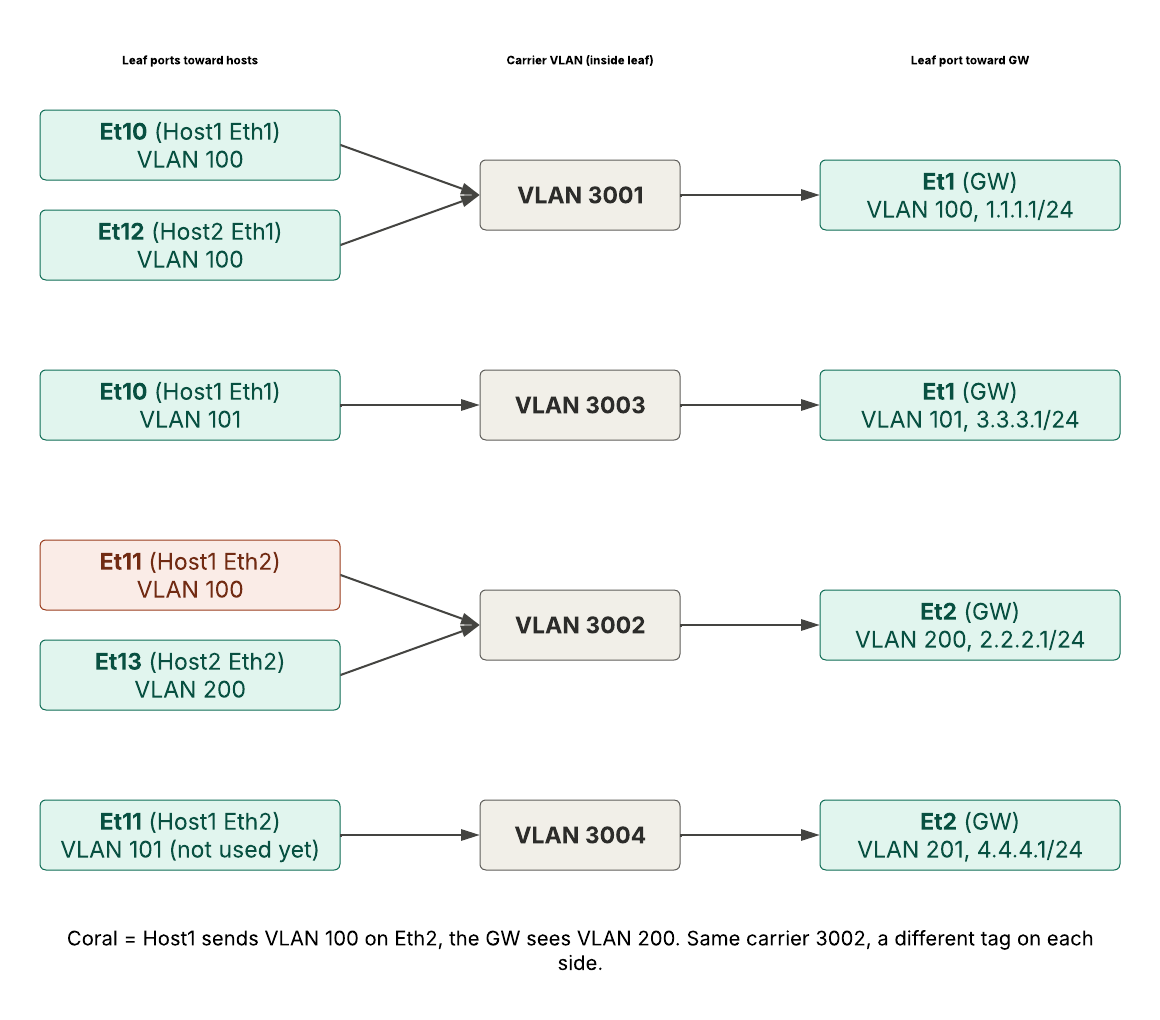
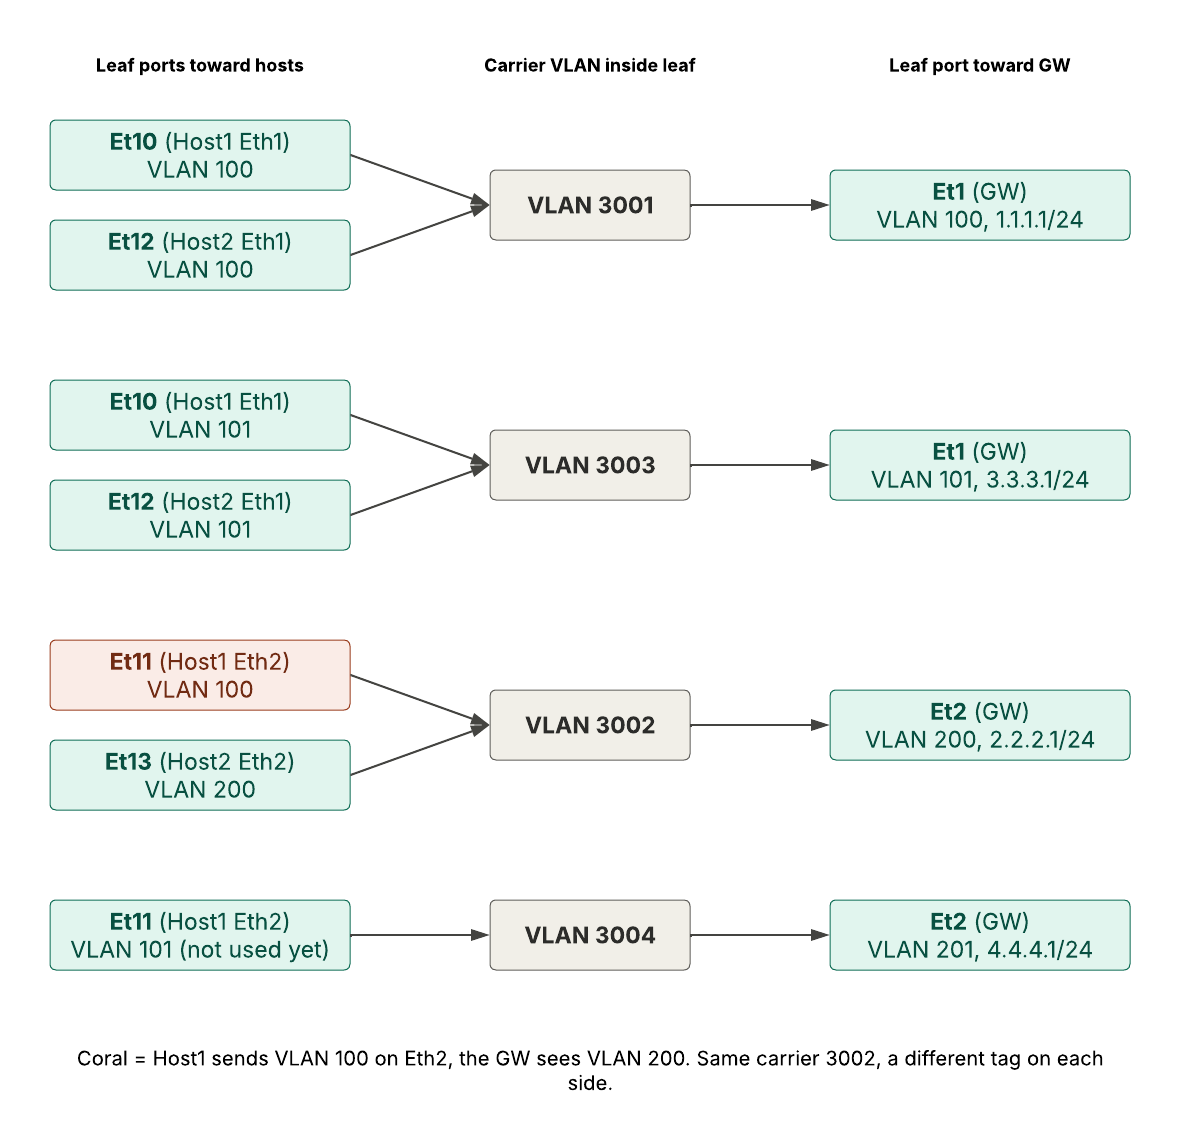
Update ACI example: Host2 VLAN 101, Et12 translation to 3003, ACI-L1 rename
Claude-Session: https://claude.ai/code/session_01FdATFcuqPP7GwvvmwfoGLn

diff --git a/pvlan-sw/ACI-example.md b/pvlan-sw/ACI-example.md
@@ -19,20 +19,20 @@ For the full command list and troubleshooting, see [README.md](README.md).
 
 ## Topology
 
-![Overview of the lab: Host1 and Host2 connected to LEAF1A, LEAF1A connected to GW](images/aci-example-overview.png)
+![Overview of the lab: ACI-L1 and Host2 connected to LEAF1A, LEAF1A connected to GW](images/aci-example-overview.png)
 
 In the diagram every host port is shown as a physical interface with the VLANs it carries. The Linux bridge that `pvlan-sw` uses internally is not drawn, so you only see ports, VLANs and IPs.
 
 | Device | Port | VLANs | IP addresses |
 | --- | --- | --- | --- |
-| Host1 | Eth1 (trunk) | 100, 101 | 1.1.1.10/24 on VLAN 100, 3.3.3.10/24 on VLAN 101 |
-| Host1 | Eth2 (trunk) | 100 | 2.2.2.10/24 on VLAN 100 |
-| Host2 | Eth1 (trunk) | 100 | 1.1.1.11/24 on VLAN 100 |
+| ACI-L1 | Eth1 (trunk) | 100, 101 | 1.1.1.10/24 on VLAN 100, 3.3.3.10/24 on VLAN 101 |
+| ACI-L1 | Eth2 (trunk) | 100 | 2.2.2.10/24 on VLAN 100 |
+| Host2 | Eth1 (trunk) | 100, 101 | 1.1.1.11/24 on VLAN 100, 3.3.3.11/24 on VLAN 101 |
 | Host2 | Eth2 (trunk) | 200 | 2.2.2.11/24 on VLAN 200 |
 | GW | Et1 (trunk) | 100, 101 | 1.1.1.1/24 on VLAN 100, 3.3.3.1/24 on VLAN 101 |
 | GW | Et2 (trunk) | 200, 201 | 2.2.2.1/24 on VLAN 200, 4.4.4.1/24 on VLAN 201 |
 
-Host1 sends VLAN 100 on **both** of its ports, but the two ports end up in different gateway VLANs (100 and 200). That is the ACI style part: the VLAN number on the host does not have to match the VLAN number on the gateway.
+ACI-L1 sends VLAN 100 on **both** of its ports, but the two ports end up in different gateway VLANs (100 and 200). That is the ACI style part: the VLAN number on the host does not have to match the VLAN number on the gateway.
 
 ### Topology file
 
@@ -41,14 +41,14 @@ management_network: a-135
 subnet_pool: 172.16.0.0/16
 
 linux_nodes:
-  Host1:
+  ACI-L1:
     image: pvlan-sw:latest
   Host2:
     image: pvlan-sw:latest
 
 connections:
-  - { device1: Host1, intf1: Ethernet1, device2: LEAF1A, intf2: Ethernet10 }
-  - { device1: Host1, intf1: Ethernet2, device2: LEAF1A, intf2: Ethernet11 }
+  - { device1: ACI-L1, intf1: Ethernet1, device2: LEAF1A, intf2: Ethernet10 }
+  - { device1: ACI-L1, intf1: Ethernet2, device2: LEAF1A, intf2: Ethernet11 }
   - { device1: Host2, intf1: Ethernet1, device2: LEAF1A, intf2: Ethernet12 }
   - { device1: Host2, intf1: Ethernet2, device2: LEAF1A, intf2: Ethernet13 }
   - { device1: LEAF1A, intf1: Ethernet1, device2: GW, intf2: Ethernet1 }
@@ -60,14 +60,14 @@ Generate and start it:
 ```sh
 python3 generate-lab.py topology-pvlan.yml
 docker-compose up -d
-docker exec -it Host1 sh
+docker exec -it ACI-L1 sh
 ```
 
 ## Host configuration
 
 Nothing is configured at boot. Open a shell in each host and run the `pvlan` commands below.
 
-### Host1: one IP per port and VLAN (L3 mode)
+### ACI-L1: one IP per port and VLAN (L3 mode)
 
 Each port keeps its own IP per VLAN. Nothing is shared between the ports.
 
@@ -91,13 +91,15 @@ On the wire, Eth1 sends VLAN 100 and VLAN 101 tagged, and Eth2 sends VLAN 100 ta
 
 ### Host2: trunk ports with isolation (bridge mode)
 
-Both ports are tagged members of one VLAN each, the two ports are isolated from each other, and the host has an address in each VLAN.
+Eth1 carries VLANs 100 and 101, Eth2 carries VLAN 200, the two ports are isolated from each other, and the host has an address in each VLAN.
 
 ```sh
 pvlan vlan add 100 Ethernet1 --tagged
+pvlan vlan add 101 Ethernet1 --tagged
 pvlan vlan add 200 Ethernet2 --tagged
 pvlan isolate Ethernet1 Ethernet2
 pvlan ip 100 1.1.1.11/24
+pvlan ip 101 3.3.3.11/24
 pvlan ip 200 2.2.2.11/24
 pvlan show
 ```
@@ -107,13 +109,16 @@ Result:
 ```
 port              vlan-id
 eth1              100
+                  101
 eth2              200
 br0               100
+                  101
                   200
 
 IP interfaces:
 br0.100@br0      UP             1.1.1.11/24
 br0.200@br0      UP             2.2.2.11/24
+br0.101@br0      UP             3.3.3.11/24
 
 port isolation:
 eth1 isolated on
@@ -130,14 +135,14 @@ The leaf does not create VLAN 100, 101, 200 or 201. It uses **carrier VLANs** (3
 
 | Carrier VLAN | Host side | GW side | What it connects |
 | --- | --- | --- | --- |
-| 3001 | Et10 VLAN 100 (Host1 Eth1), Et12 VLAN 100 (Host2 Eth1) | Et1 VLAN 100 | The 1.1.1.0/24 network |
-| 3003 | Et10 VLAN 101 (Host1 Eth1) | Et1 VLAN 101 | The 3.3.3.0/24 network |
-| 3002 | Et11 VLAN 100 (Host1 Eth2), Et13 VLAN 200 (Host2 Eth2) | Et2 VLAN 200 | The 2.2.2.0/24 network. Host1 sends VLAN 100, the GW sees VLAN 200. |
-| 3004 | Et11 VLAN 101 (Host1 Eth2, not used yet) | Et2 VLAN 201 | The 4.4.4.0/24 network |
+| 3001 | Et10 VLAN 100 (ACI-L1 Eth1), Et12 VLAN 100 (Host2 Eth1) | Et1 VLAN 100 | The 1.1.1.0/24 network |
+| 3003 | Et10 VLAN 101 (ACI-L1 Eth1), Et12 VLAN 101 (Host2 Eth1) | Et1 VLAN 101 | The 3.3.3.0/24 network |
+| 3002 | Et11 VLAN 100 (ACI-L1 Eth2), Et13 VLAN 200 (Host2 Eth2) | Et2 VLAN 200 | The 2.2.2.0/24 network. ACI-L1 sends VLAN 100, the GW sees VLAN 200. |
+| 3004 | Et11 VLAN 101 (ACI-L1 Eth2, not used yet) | Et2 VLAN 201 | The 4.4.4.0/24 network |
 
 The leaf uses two techniques.
 
-**Layer 2 subinterfaces** (ports facing Host1 and the GW). The parent port is a routed port (`no switchport`), and each subinterface matches one VLAN tag and drops the frame into a carrier VLAN.
+**Layer 2 subinterfaces** (ports facing ACI-L1 and the GW). The parent port is a routed port (`no switchport`), and each subinterface matches one VLAN tag and drops the frame into a carrier VLAN.
 
 **VLAN translation** (ports facing Host2). The ports stay normal trunk ports, and a translation line maps the VLAN the host sends to a carrier VLAN.
 
@@ -146,7 +151,7 @@ The leaf uses two techniques.
 ```
 vlan 3001-3004
 
-! Host1 Eth1, carries VLAN 100 and 101
+! ACI-L1 Eth1, carries VLAN 100 and 101
 interface Ethernet10
    no switchport
 interface Ethernet10.100
@@ -157,7 +162,7 @@ interface Ethernet10.101
    encapsulation dot1q vlan 101
    vlan id 3003
 
-! Host1 Eth2, carries VLAN 100 (VLAN 101 prepared)
+! ACI-L1 Eth2, carries VLAN 100 (VLAN 101 prepared)
 interface Ethernet11
    no switchport
 interface Ethernet11.100
@@ -167,11 +172,11 @@ interface Ethernet11.101
    encapsulation dot1q vlan 101
    vlan id 3004
 
-! Host2 Eth1 and Eth2, plain trunks with translation to the carrier VLANs
+! Host2 Eth1 (VLAN 100, 101) and Eth2 (VLAN 200), plain trunks with translation to the carrier VLANs
 interface Ethernet12
    switchport mode trunk
    switchport vlan translation 100 3001
-   switchport vlan translation 101 3002
+   switchport vlan translation 101 3003
    spanning-tree portfast edge
    spanning-tree guard root
 interface Ethernet13
@@ -202,7 +207,7 @@ interface Ethernet2.201
 no ip routing
 ```
 
-The rewrite from VLAN 100 to VLAN 200 on Host1 Eth2 happens because `Ethernet11.100` and `Ethernet2.200` share carrier 3002 but use different dot1q tags. Each extra VLAN needs one more pair of subinterfaces and one more carrier VLAN.
+The rewrite from VLAN 100 to VLAN 200 on ACI-L1 Eth2 happens because `Ethernet11.100` and `Ethernet2.200` share carrier 3002 but use different dot1q tags. Each extra VLAN needs one more pair of subinterfaces and one more carrier VLAN.
 
 ## Gateway configuration
 
@@ -236,7 +241,7 @@ no ip routing
 
 Always use `-I <interface>` so the ping leaves through the interface you mean. Several lab addresses (for example 1.1.1.1) are also public addresses, and without `-I` a ping can silently go out through the management port.
 
-**Host1:**
+**ACI-L1:**
 
 ```sh
 ping -c 3 -I eth1.100 1.1.1.1
@@ -248,14 +253,16 @@ ping -c 3 -I eth2.100 2.2.2.1
 
 ```sh
 ping -c 3 -I br0.100 1.1.1.1
+ping -c 3 -I br0.101 3.3.3.1
 ping -c 3 -I br0.200 2.2.2.1
 ```
 
-**Between the hosts** (they share carrier VLANs 3001 and 3002 on the leaf):
+**Between the hosts** (they share carrier VLANs 3001, 3003 and 3002 on the leaf):
 
 ```sh
-# on Host1
+# on ACI-L1
 ping -c 3 -I eth1.100 1.1.1.11
+ping -c 3 -I eth1.101 3.3.3.11
 ping -c 3 -I eth2.100 2.2.2.11
 ```
 
@@ -270,11 +277,12 @@ tcpdump -eni eth1 arp or icmp
 ```
 show mac address-table vlan 3001
 show mac address-table vlan 3002
+show mac address-table vlan 3003
 ```
 
 ## Things to know
 
-- **Isolation only applies inside Host2.** It stops Host2 Eth1 and Host2 Eth2 from reaching each other through the host. It does not stop Host2 from reaching Host1 or the GW, because the leaf puts them in the same carrier VLANs.
-- **One line looks like a leftover.** `Ethernet12` has `switchport vlan translation 101 3002`. Host2 does not use VLAN 101 today. If a VLAN 101 frame ever arrived on Et12 it would land in carrier 3002, together with the 2.2.2.0/24 network. If you did not mean that, remove the line (use carrier 3003 if you want VLAN 101 on the 3.3.3.0/24 network).
+- **Isolation only applies inside Host2.** It stops Host2 Eth1 and Host2 Eth2 from reaching each other through the host. It does not stop Host2 from reaching ACI-L1 or the GW, because the leaf puts them in the same carrier VLANs (3001, 3002 and 3003).
+- **VLAN 101 is shared on purpose.** ACI-L1 Eth1 and Host2 Eth1 both send VLAN 101 into carrier 3003, so 3.3.3.10 and 3.3.3.11 sit in the same network as the GW address 3.3.3.1.
 - **Host settings are not saved.** Rebuilding or recreating a host container loses everything set with `pvlan`. Keep the commands from this page handy.
 - **Save the switch configs** with `write memory` on LEAF1A and GW if you want them to survive a restart.
